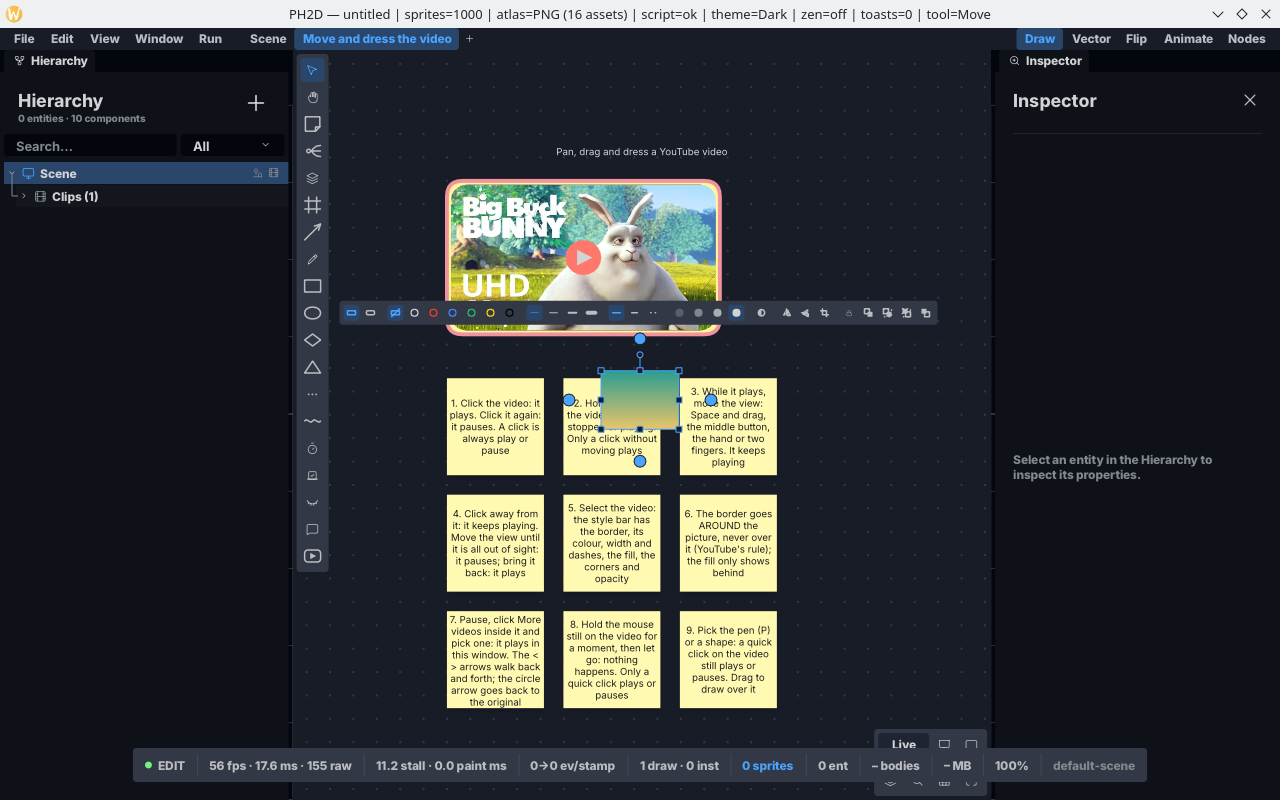
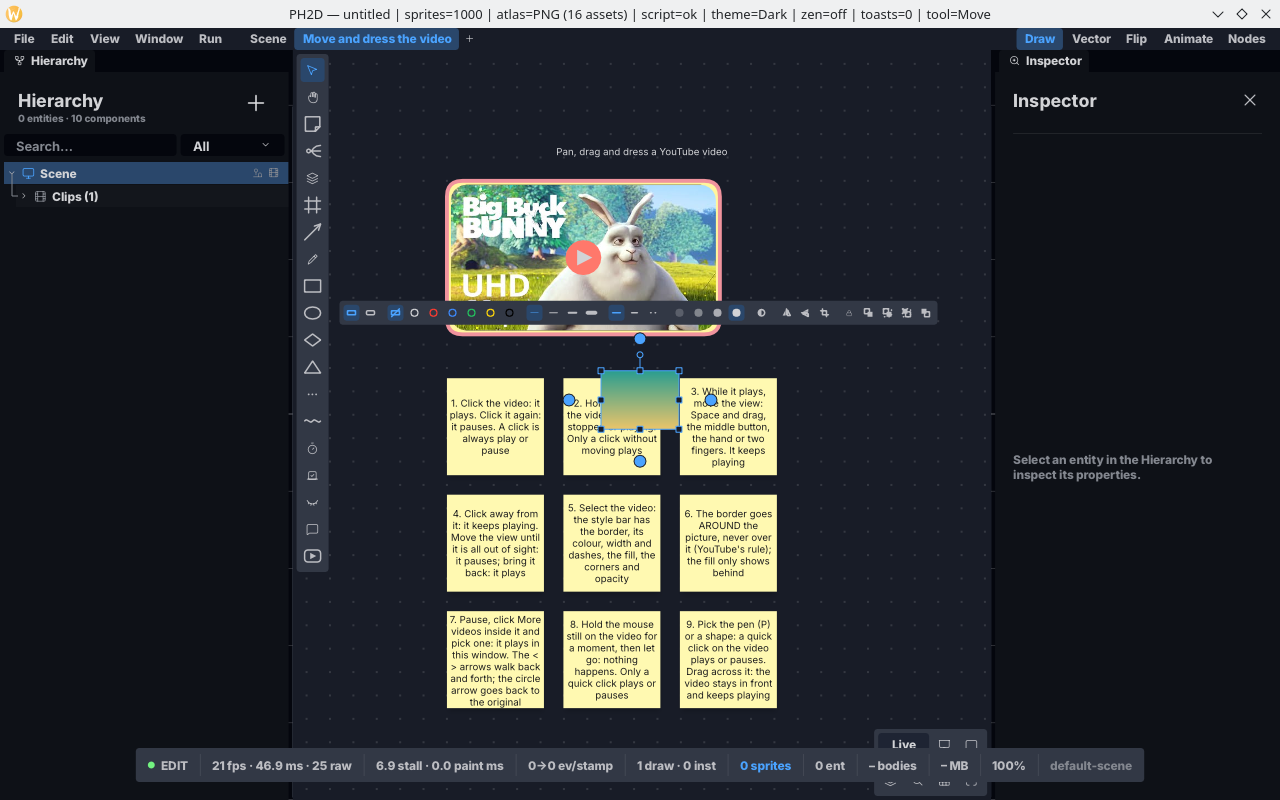
docs(MiroClone W21): §W21.4 (depois do smoke do dono: o vídeo à frente do que o sobrepõe, o clique no arranque, «a carregar»), ADR-0185 §W21 itens 3 e 5 e as notas de revogação da regra «tapado pausa»; handoff §1b; foto da cena 21 com a lição 9 nova

diff --git a/docs/MiroClone/handoffs/HANDOFF_INTEGRACAO_line_MiroClone_W21_2026-10-13.md b/docs/MiroClone/handoffs/HANDOFF_INTEGRACAO_line_MiroClone_W21_2026-10-13.md
@@ -6,7 +6,7 @@
 > e NÃO se repetem aqui (os itens W20.1–W20.7 de lá continuam valendo).
 > Briefing W21: [HANDOFF_CONTINUACAO_W21](HANDOFF_CONTINUACAO_W21_VIDEO_CLIQUE_FERRAMENTAS_WINDOWS_2026-10-13.md).
 > Decisão: [ADR-0185 §W21](../../architecture/decisions/0185-o-video-do-quadro-toca-no-navegador-da-pessoa-projectado-no-canvas.md)
-> (itens 1–4). Mecanismo: [`10_video_do_youtube.md`](../10_video_do_youtube.md) §W21 e §W21.3 (Windows). Oráculo:
+> (itens 1–5). Mecanismo: [`10_video_do_youtube.md`](../10_video_do_youtube.md) §W21, §W21.3 (Windows) e §W21.4 (2.ª volta). Oráculo:
 > [`sonda_w21.mjs`](../ferramentas/excalidraw_oracle/sonda_w21.mjs) (saídas em `excalidraw_oracle/saidas/w21/`).
 
 ## 1. Identidade
@@ -17,7 +17,7 @@
 | HEAD | ver `git log -1` (este handoff é o último commit) |
 | base (merge-base) | `757afebd58` = `main` de 13/10 |
 | commits W20 | ver o handoff da W20 (`86678fcb0b` … `17b0b42c83`) |
-| commits W21 (do mais velho) | `38d0a1c7a2` briefing · `70a27dba39` oráculo `sonda_w21.mjs` · `b4c03a4e8a` feat clique longo + outra ferramenta · `d14f8c5276` cena 21, lições 8 e 9 · `b2d690bd37` docs §W21 · `eeeecd817e` feat Windows · `58172406e8` docs §W21.3 · `ea6810f233` fecho · `433d21bc11` foto da cena · + este handoff |
+| commits W21 (do mais velho) | `38d0a1c7a2` briefing · `70a27dba39` oráculo `sonda_w21.mjs` · `b4c03a4e8a` feat clique longo + outra ferramenta · `d14f8c5276` cena 21, lições 8 e 9 · `b2d690bd37` docs §W21 · `eeeecd817e` feat Windows · `58172406e8` docs §W21.3 · `ea6810f233` fecho · `433d21bc11` foto da cena · `a62dddb8a8` handoff · **`0cb5eede4f` fix, 2.ª volta depois do smoke do dono (§1b)** |
 | diff | `git diff --stat 757afebd58 HEAD` (W20+W21): 114 ficheiros, +20763/−256 (a maior parte é JSON e fotos dos oráculos). Só W21 (`git diff --stat 38d0a1c7a2 HEAD`): 43 ficheiros, +12147/−198. **`shells/` intocada** (`git diff --stat 757afebd58 HEAD -- shells/` vazio) |
 | smoke | cena **21** (`PH2D_BOARD_SMOKE=21`, `smoke_w20.rs`, agora 9 lições; `max_level` continua 21, nenhuma cena nova). Foto: `ferramentas/soltar_wayland/quadro21_w21_depois.png` |
 
@@ -41,6 +41,23 @@
 4. As lições 8 e 9 da cena 21 (`board.smoke.w20.l8`, `l9`) ensinam (8) segurar parado não faz nada e (9) com a caneta
    (P) ou uma forma, o clique toca/pausa e arrastar desenha. Conduzidas pelo gate da cena (`Mouse::hold`).
 
+## 1b. Depois do smoke do dono (13/10) — commit `0cb5eede4f`
+
+Mecanismo, medidas e gates: [`10_video_do_youtube.md` §W21.4](../10_video_do_youtube.md); decisão: ADR-0185 §W21 itens
+3 (reescrito) e 5 (novo). O dono reportou três coisas:
+
+1. **«Nem sempre o primeiro clique toca o vídeo.»** Medido no Chrome 155 real: um clique no instante em que o tocador
+   passa a `Buffering` devolve-o a `Unstarted` e ele nunca toca (8,5 s). Cura: `Playback::started` +
+   `Player::mouse` só depois dele; `PlayerStatus::starting` e «a carregar» (`loading_mark`) no lugar do play. RED
+   `[(Buffering, true, Unstarted)]` → verde (3 variantes em Playing). Gate `a_starting_player_shows_it_is_loading`.
+2. **«O clique com a caneta toca o vídeo.»** Perguntado, «está certo assim»: a opção (a) da W21 fica.
+3. **«Nota/traço/shape sobre parte do vídeo, ele não toca.»** O oráculo esconde o desenho atrás do vídeo (a tocar ou
+   parado): decide sem perguntar. **Revoga** «nós pausamos, acima»: o vídeo desenha-se à frente
+   (`BoardDoc::live_in_paint_order`), o clique na parte sobreposta apanha o vídeo, só outro vídeo o tapa. As lições 2
+   da cena 18 e 9 da cena 21 dizem a lei nova. Mutação: os dois gates sangram.
+
+Testes e mutação: [§W21.4](../10_video_do_youtube.md) (model 124 · render 54 · edit 218 · video 16/16 real · app-board 74 · hero 445).
+
 ## 2. Foundational / partilhado tocado (W21; os da W20 estão no handoff dela)
 
 | onde | o quê | merge |
@@ -55,6 +72,17 @@
 | `ph2d-board-video` | `browser.rs`, `player.rs`, `tests.rs`, `Cargo.toml` | só MiroClone |
 | **crate NOVA** `crates/ph2d-win-pipe-spawn` | membro novo do workspace; `windows-sys` 0.61.2 (já no lock) só em `cfg(windows)`; `Cargo.lock` +1 entrada | aditivo; **regenere o lock, nunca à mão** |
 | `ph2d-editor-core/tests/it/architecture_every_member_inherits_the_workspace_lints.rs` | +1 entrada em `EXCECOES`: a crate FFI precisa de `unsafe`, que o workspace proíbe (isenção que viaja com o código, como a `ph2d-wayland-dnd`) | aditivo (lista); se outra linha também acrescentar, junte as duas |
+
+**2.ª volta (`0cb5eede4f`) — o que um merge pode partir:**
+
+| onde | o quê | merge |
+|---|---|---|
+| `ph2d-board-model` `element.rs` | `BoardDoc::live_in_paint_order` — fn `pub` NOVA | aditivo |
+| `ph2d-board-render` `video.rs` | ⚠ `PlayerStatus::starting` — CAMPO NOVO numa struct `pub`: quem a constrói por literal tem de o pôr (4 testes actualizados: `board_video_tests.rs`, `board_team_flow_tests.rs`, `smoke_w19_tests.rs`, `smoke_w20_tests.rs`); `covered` só conta vídeos; `loading_mark` (novo); o laço do desenho lê a ordem nova | quem constrói `PlayerStatus` noutra linha parte |
+| `ph2d-board-edit` `gesture.rs` | `Editor::hit` lê a ordem de desenho | só MiroClone |
+| `ph2d-board-video` `playback.rs`, `player.rs` | `Playback::started` (campo `pub` novo; o `load` repõe); `Player::mouse` com guarda | aditivo |
+| `ph2d-app-board` `video.rs` | passa `starting` | só MiroClone |
+| `ph2d-i18n` `board_images.rs` | textos MUDADOS: `board.video.covered`, `board.smoke.w18.l2`, `board.smoke.w20.l9` | se outra linha os tocar, junte |
 
 **Roteador de smoke**: `max_level` 21 (inalterado pela W21; reconte se outra linha criar a 21). **Contratos
 congelados (§6)**: nenhum. `PROTOCOL`/`FORMAT_VERSION` do quadro: inalterados. **Catracas baixadas / itens partilhados
@@ -90,6 +118,8 @@ desenha*. TRAÇO: `board_video::pointer_down` (`other`, devolve `true` ⇒ o Dow
 `canvas_down(at)`; segurar: `board_view::pointer` (Up) → `deferred_hold` → `canvas_down(at)` → `ed.pointer_up`.
 ASSERÇÃO-VERMELHA: `with_another_tool_…`. **NÃO-CHECADO-PELA-COMPILAÇÃO**: (3) o tocador num Windows real.
 
+**Re-corrido depois de `0cb5eede4f`: (a preencher)** — o portão acima é o de ANTES da 2.ª volta.
+
 ### Windows: o que foi medido (e a receita, que NÃO está no repo)
 
 Compila para `x86_64-pc-windows-gnu` SEM mingw: o C do `ring` com `CC_x86_64_pc_windows_gnu=clang
@@ -116,6 +146,10 @@ Chrome real, `--include-ignored`).
 - (d) Da W20, sem mudança: o canal aberto fora não pausa o vídeo daqui; o fundo tracejado pinta-se sólido num vídeo;
   e os da W19 que o handoff da W20 lista (Premium · clicar num vídeo TAPADO na apresentação · o aviso no ecrã inteiro ·
   o enquadramento das cenas não desconta os painéis laterais · o `held` do app).
+- (e) **Da 2.ª volta**: o limiar de arrasto de um clique é o da casa (`TAB_DRAG_THRESHOLD_PX`); se o dono ainda vir
+  cliques que não tocam com o vídeo já carregado, a próxima suspeita é um tremor da mão acima dele (não medido).
+  O anel «a carregar» gira com os desenhos do quadro (`RenderCache::frame`): se o quadro não redesenhar durante o
+  arranque fica parado (não medido no app).
 - **FECHADOS pelo dono (13/10)**: as pegas nos cantos do vídeo («deixar») e o trilho das setas da sessão («Não
   precisa»); o clique longo e a outra ferramenta («corrija») e o Windows («implemente») foram feitos aqui.
 - O ficheiro solto `docs/MiroClone/ferramentas/cena2_forma/cena2_botao_forma.log` (de 11/10) é instrumento antigo, não
@@ -152,7 +186,9 @@ nada») e a 9 (com a caneta, tecla P, ou uma forma, o clique toca/pausa e arrast
 laser fica de fora (aponta; não toca nem pausa). Foto: `ferramentas/soltar_wayland/quadro21_w21_depois.png` (a imagem
 no meio é do fotógrafo, não da cena). Como saber que deu errado: segurar parado num vídeo e largar o activa ou pausa;
 com a caneta, um clique rápido no vídeo deixa um ponto/traço em vez de tocar.
+**Novo na 2.ª volta** (diga ao dono): (a) ao arrancar, o vídeo mostra um anel «a carregar» no lugar do play — um clique
+nessa fase não faz nada (o vídeo toca sozinho); (b) uma nota, forma ou traço desenhado sobre parte do vídeo fica
+ATRÁS dele e o vídeo continua a tocar; só outro vídeo por cima o pausa (aviso «Another video covers this one…»).
+Errado: o vídeo pausa por ter uma nota/traço por cima, ou fica parado depois de vários cliques.
 
-**Prova do binário** (depois de reclamar ~16 GB de `target/*/incremental`; 2.ª e 3.ª compilações, a mesma linha
-de comando `bash scripts/ph2d-run.sh cargo build -p ph2d-host-desktop --profile smoke`): `Finished smoke profile
-[optimized] target(s) in 0.23s`, zero `Compiling`. O binário é o de `ea6810f233` (os commits seguintes são só docs).
+**Prova do binário:** (a preencher) — o binário de `ea6810f233` já não é o do HEAD (`0cb5eede4f` mexeu em código).

diff --git a/docs/MiroClone/10_video_do_youtube.md b/docs/MiroClone/10_video_do_youtube.md
@@ -13,7 +13,8 @@ com `gst-plugins-good`) · Servo 0.7 embebido toca a 29,9 fps mas a 360p (sem MS
 **Chrome por CDP: 29,97 fps, som, clique 7–28 ms**. O dono decidiu (12/10) a «janela virtual»: o navegador da família Chrome
 da pessoa, sem cabeça, CDP, projectado no canvas ([ADR-0185](../architecture/decisions/0185-o-video-do-quadro-toca-no-navegador-da-pessoa-projectado-no-canvas.md),
 **número PROVISÓRIO**: máximo no main 0181, linhas 0184 — recontar). Lei do YouTube (Required Minimum Functionality):
-nada à frente do leitor, ≥ 200×200, Referer ⇒ **vivo só destapado, sem rotação, inteiro à vista, ≥ 200 px**.
+nada à frente do leitor, ≥ 200×200, Referer ⇒ **vivo só destapado, sem rotação, inteiro à vista, ≥ 200 px**
+(revogado na W21: o vídeo desenha-se à frente, só outro vídeo o tapa; e na W20, «algum pedaço à vista»).
 
 6. **Modelo.** `ElementKind::Embed(Box<Embed{link, video: Video::YouTube{id,start,vertical}, style}>)` no **FIM** do enum
    (`FORMAT_VERSION` fica 13: lei do repo, variante no fim não muda o formato); `Field::Embed` (`Field::ALL` 38→39);
@@ -146,7 +147,7 @@ PÁGINA (`event.timeStamp` de pointerdown→pointerup), não no `waitForTimeout`
 | vídeo NÃO seleccionado, clique de 68 ms no meio / 607,6 ms | activa / não activa (T0) |
 | vídeo seleccionado, segurar parado no meio, 13 tempos a subir e a descer | activa a 82 · 153 · 203 · 253 · 283,5 ms; NÃO activa a 303,3 · 324 · 354 · 403 · 455 · 502 · 605 · 807 ms; idêntico nos dois sentidos ⇒ a fronteira está em (283,5; 303,3] ms, «perto de 300 ms» (T1) |
 | 11 ferramentas (rectangle, ellipse, diamond, arrow, line, freedraw, text, eraser, laser, hand, frame) sobre o vídeo parado e sobre o activo a tocar | a ferramenta faz SEMPRE o seu por cima e nunca activa o vídeo. Clique sem mexer: arrow/line/freedraw criam um elemento, text abre o editor, rectangle/ellipse/diamond/frame nada (tamanho zero); arrasto: cria o elemento por cima (F) |
-| escolher outra ferramenta com o vídeo activo | desactiva-o (`activeEmbeddable` → `null`) mas ELE CONTINUA A TOCAR, mesmo com um rectângulo desenhado por cima (ignora a regra do YouTube de nada à frente do tocador; nós pausamos, ADR-0185) |
+| escolher outra ferramenta com o vídeo activo | desactiva-o (`activeEmbeddable` → `null`) mas ELE CONTINUA A TOCAR, mesmo com um rectângulo desenhado por cima (ignora a regra do YouTube de nada à frente do tocador; nós pausávamos, ADR-0185 — *revogado na W21 §W21.4: o vídeo desenha-se à frente*) |
 | borracha · mão · laser | APAGA o vídeo (o iframe desaparece e ele pára; a nossa só apaga traços da caneta) · faz pan · não desenha |
 
 **A medida não decidia o item 2.** O oráculo não faz nem (a) «clique = play/pause com qualquer ferramenta, o arrasto é
@@ -209,3 +210,50 @@ lançado pela crate de FFI `ph2d-win-pipe-spawn` (`PROC_THREAD_ATTRIBUTE_HANDLE_
 (30,6 q/s, clique → quadro 28,7 ms). **Por medir num Windows real**: o Edge, o sandbox ligado (no Wine só corre com
 `--no-sandbox`, que existe SÓ nos testes) e os órfãos do fecho (2 em 11 no Wine). O recuo «abrir no navegador» fica
 para quando não há navegador.
+
+## §W21.4 — depois do smoke do dono (13/10)
+
+Commit `0cb5eede4f`. Decisão: [ADR-0185 §W21 itens 3 e 5](../architecture/decisions/0185-o-video-do-quadro-toca-no-navegador-da-pessoa-projectado-no-canvas.md).
+O dono reportou três coisas: (a) «nem sempre o primeiro clique toca o vídeo; às vezes preciso clicar muitas vezes»;
+(b) «o clique com a caneta toca o vídeo» — perguntado, «está certo assim» (é a opção (a) do item 2: fica);
+(c) «se notas, traços ou shapes sobrepõem parcialmente o vídeo, ele não toca. Corrija».
+
+**(c) O vídeo desenha-se à frente.** Oráculo (`saidas/w21/w21_F_rectangle_activo_03_arrasto_largou.png`,
+`w21_F_freedraw_activo_03…`, `w21_F_rectangle_parado_04…`): no Excalidraw o rectângulo e o traço desenhados por cima
+de um vídeo — a tocar ou parado — ficam ESCONDIDOS atrás dele (o iframe vive numa camada acima do canvas). Isso
+decide sem perguntar ao dono e cumpre a regra do YouTube (nada à frente do tocador). Antes, qualquer elemento acima no
+z cuja CAIXA ENVOLVENTE tocasse a do vídeo pausava-o (até um traço cuja caixa o tocava sem o tocar). Cura:
+`BoardDoc::live_in_paint_order` (ordem de z com os vídeos por cima do resto; entre vídeos, o z). Quem a lê: o desenho
+(`ph2d-board-render::paint`, o laço dos elementos; os recortes dos frames reentram por elemento, por isso vale com
+diapositivos), o «o de cima» do clique (`Editor::hit`: o clique na parte sobreposta apanha o vídeo) e a exportação
+(o que se exporta é o que se vê). `covered` conta SÓ outro vídeo mais acima. Aviso `board.video.covered`: «Another
+video covers this one: YouTube only plays it uncovered — move one of them».
+
+**(a) O clique durante o arranque.** Medido no navegador real (Chrome 155, teste `#[ignore]`
+`a_click_while_the_player_starts_never_stops_its_autoplay`, variantes no mesmo processo): sem clique o tocador vai
+Unstarted → Buffering ~1,2–1,5 s → Playing ~1,5–1,9 s (máquina calma). Um clique a 0,3 s e a 1 s (Unstarted) não faz
+nada; a 2 s/3 s (já Playing) pausa — correcto; e **um clique no instante em que passa a `Buffering` devolve-o a
+`Unstarted` e ele NUNCA chega a tocar** (8,5 s observados): o «preciso clicar muitas vezes». E durante o arranque o
+quadro tirava o play e mostrava a miniatura parada, o que convidava a clicar de novo. Cura: `Playback::started`
+(true em Playing/Paused/Ended/Cued; o `load` repõe) e `Player::mouse` só manda o rato à página depois dele (antes, o
+vídeo toca sozinho, `autoplay=1`); `PlayerStatus::starting = !started` e o desenho põe «a carregar» (disco `BgScrim`
+com um arco de ¾ que gira com os desenhos do quadro, `loading_mark`) no lugar do play. RED antes da cura:
+`[(Buffering, true, Unstarted)]`; verde depois: as três variantes acabam em Playing.
+
+| gate | o que prova |
+|---|---|
+| `a_video_draws_over_what_overlaps_it_and_only_another_video_covers_it` (render) | uma nota acima no z pinta-se antes do quadro do tocador e ele fica vivo sem play; outro vídeo por cima tapa-o |
+| `shapes_over_part_of_a_video_never_stop_it_and_the_video_takes_the_click` (editor, despacho real) | rectângulo + traço da caneta sobre parte do vídeo: o clique no play toca-o; o clique na parte sobreposta selecciona o vídeo |
+| `a_starting_player_shows_it_is_loading` (render) | o «a carregar» no lugar do play |
+| `a_click_while_the_player_starts_never_stops_its_autoplay` (tocador real, `#[ignore]`) | as 3 variantes acabam em Playing |
+| gate da cena 18 · gate da cena 21 | lição 2 da cena 18: «Put a note over part of the video: the video stays in front and keeps playing. Rotate it: it pauses (YouTube's rule).» (prova as duas metades; antes ensinava o contrário, `tapado não está vivo`); lição 9 da cena 21: «… Drag across it: the video stays in front and keeps playing» (o gate verifica que o vídeo continua vivo com o traço) |
+
+Mutação (desligar a ordenação + `covered` antigo): os dois gates do (c) sangram («nota por cima = true: o tocador
+parou», «tapado em parte e não toca»). Testes depois da volta: `ph2d-board-model` 124 · `ph2d-board-render` 54 (+2
+ignorados) · `ph2d-board-edit` 218 · `ph2d-board-video` 7 + 9 ignorados (16/16 com `--include-ignored`, release) ·
+`ph2d-app-board` 74 + 7 ignorados · `ph2d-editor-core --lib screens::hero` 445 · os 18 testes do vídeo ✓.
+
+**Aberto.** (i) O limiar de arrasto de um clique é o da casa (`TAB_DRAG_THRESHOLD_PX`); se o dono ainda vir cliques que
+não tocam com o vídeo já carregado, a próxima suspeita é um tremor da mão acima dele (não medido). (ii) O anel «a
+carregar» gira com os desenhos do quadro (`RenderCache::frame`): se o quadro não redesenhar durante o arranque, fica
+parado (não medido no app).

diff --git a/docs/architecture/decisions/0185-o-video-do-quadro-toca-no-navegador-da-pessoa-projectado-no-canvas.md b/docs/architecture/decisions/0185-o-video-do-quadro-toca-no-navegador-da-pessoa-projectado-no-canvas.md
@@ -43,7 +43,7 @@ quadros chegam por screencast e desenham-se no canvas como uma imagem; o rato e 
 3. **UM tocador vivo de cada vez** — o vídeo ACTIVADO (o idioma do oráculo: um clique activa, clicar fora
    desactiva). Os outros mostram a miniatura com o símbolo de play.
 4. **Vivo só quando as regras se cumprem**, uma função com gate (`live_allowed`): descoberto (nenhum elemento por
-   cima do retângulo dele), sem rotação e ≥ 200×200 px VISÍVEIS (W19: era «inteiro à vista», a regra era nossa e
+   cima do retângulo dele) *(revogado na W21: o vídeo desenha-se à frente; só outro vídeo o tapa)*, sem rotação e ≥ 200×200 px VISÍVEIS (W19: era «inteiro à vista», a regra era nossa e
    pausava o vídeo a cada zoom — §W19). Ao falhar qualquer uma, o
    desenho volta à miniatura (com o quadro em que parou) no mesmo quadro em que deixou de cumprir.
 5. **A miniatura SEMPRE no canvas**: export, pan, zoom, rotação, sem rede. Busca-se fora do fio da janela, com
@@ -61,7 +61,7 @@ quadros chegam por screencast e desenham-se no canvas como uma imagem; o rato e 
 | **Servo 0.7 embutido** | toca: **29,9 q/s**, 0,09 núcleo, 646 MB, build release frio 172 s. MAS sem MSE ⇒ o YouTube cai no MP4 de **360p**; a API de embutir **quebra todo mês** (*«not a 1.0»*); pede GStreamer também no Windows/macOS; o Verso (o webview do Tauri sobre o Servo) foi **arquivado** em 10/2025. ⇒ plano B quando houver MSE (NLnet «Servo Multimedia», 06/2026) |
 | **CEF embutido** (o motor do Chrome dentro do PH2D) | toca (o mesmo motor da decisão), mas **+364 MB** instalados / 116 MB baixados por build; o `accelerated_osr` do crate `cef` 154 pede `wgpu` **30** (o nosso é 29, preso pelo `vello`); o dono preferiu zero a instalar |
 | **(iii) tirar o fluxo do vídeo** (`yt-dlp` + descodificar) | ⛔ viola os termos do YouTube |
-| **o tocador vivo por baixo das notas / rodado** | ⛔ as regras do YouTube proíbem cobrir qualquer parte do tocador e modificar a aparência dele ⇒ miniatura |
+| **o tocador vivo por baixo das notas / rodado** | ⛔ as regras do YouTube proíbem cobrir qualquer parte do tocador e modificar a aparência dele ⇒ miniatura *(revogado na W21: o vídeo desenha-se à frente; só outro vídeo o tapa)* |
 
 ## O PREÇO
 
@@ -85,7 +85,7 @@ falha e a decisão volta ao dono (o Servo é o plano B).
 ## O que fica gateado (para ninguém re-litigar por prosa)
 
 - `ph2d-board-embed` (crate da lei): `youtube::parse` contra a tabela das 24 formas do oráculo (+ as correcções);
-  `live_allowed` (descoberto · sem rotação · ≥ 200×200 VISÍVEIS — §W19).
+  `live_allowed` (descoberto · sem rotação · ≥ 200×200 VISÍVEIS — §W19) *(revogado na W21: o vídeo desenha-se à frente; só outro vídeo o tapa)*.
 - O `.excalidraw`: ler e escrever o `embeddable` com `link` (o contador do aviso X3 desce).
 - `deny.toml` `[bans]` (o `cargo deny` do `ship.sh`): as crates de extrair fluxos do YouTube (`rustube`,
   `rusty_ytdl`, `ytextract`, `youtube_dl`, `yt-dlp`, `ytdlp`) e os motores web recusados (`wry`, `cef`,
@@ -161,7 +161,7 @@ com o YouTube real, saídas em `excalidraw_oracle/saidas/w20/`); mecanismo:
    tocador tem) separa-se de `Videos::active` (quem recebe o rato e as teclas); o app toca o `player`.
 2. **A regra de estar vivo**: o mínimo de 200×200 do YouTube (*Required Minimum Functionality*) é do TOCADOR, não
    do pedaço à vista — um embed numa página que rola fica meio fora e toca; o oráculo toca com 150 px à vista e
-   todo fora. A W19 tinha lido «200×200 VISÍVEIS» e por isso o pan até à beira pausava. Agora: destapado, sem
+   todo fora. A W19 tinha lido «200×200 VISÍVEIS» e por isso o pan até à beira pausava. Agora: destapado *(revogado na W21: o vídeo desenha-se à frente; só outro vídeo o tapa)*, sem
    rodar, tocador ≥ 200×200 e **algum** pedaço à vista — só todo fora pausa (o pedido do dono); de volta, retoma
    se tocava; o navegador fecha 60 s depois e o vídeo volta a ser só o play (não arranca sozinho do início).
 3. **Os pans nunca chegam ao vídeo**: o botão do meio (também o dos dois dedos, que chega como um meio
@@ -225,8 +225,14 @@ sondas); mecanismo, tabelas e gates: [`10_video_do_youtube.md`](../../MiroClone/
    ferramenta, o arrasto é da ferramenta» ou (b) «sobre o vídeo a ferramenta não começa» —, escolheu **(a)**: o
    carregar fica à espera (consumido); vira arrasto ⇒ o editor recebe-o no ponto onde se carregou; parado além de
    `HOLD_NS` ⇒ a ferramenta faz o seu clique. O laser e a mão ficam de fora.
-3. **Não copiamos** do oráculo: o vídeo que continua a tocar com um rectângulo à frente (nós pausamos, acima) nem a
-   borracha que apaga o vídeo (a nossa só apaga traços da caneta).
+3. **Copiamos do oráculo o vídeo à frente** (2.ª volta, depois do smoke do dono de 13/10; **revoga** o «nós pausamos,
+   acima»: um rectângulo ou traço desenhado por cima de um vídeo, a tocar ou parado, fica ESCONDIDO atrás dele — o
+   iframe do oráculo vive numa camada acima do canvas, `sonda_w21.mjs` F_*). Isso cumpre a regra do YouTube (nada à
+   frente do tocador) sem pausar nada: `BoardDoc::live_in_paint_order` (a ordem de z com os vídeos por cima de tudo
+   o resto; entre vídeos, o z) é lida pelo desenho, pelo «o de cima» do clique (`Editor::hit`) e pela exportação; o
+   clique na parte sobreposta apanha o vídeo. **Só outro vídeo mais acima o tapa** (e então pausa); rodado continua a
+   pausar. O dono tinha reportado «se uma nota, traço ou forma sobrepõe parcialmente o vídeo, ele não toca». **Não
+   copiamos** a borracha que apaga o vídeo (a nossa só apaga traços da caneta).
 4. **O tocador no Windows** (decisão do dono, «implemente»): o mesmo CDP+NUL do Linux, por dois tubos anónimos cujos
    handles o navegador herda e recebe em `--remote-debugging-io-pipes=<o que ele lê>,<o que ele escreve>` (decimal; o
    formato é o do lançador do .NET Aspire, MIT). A porta TCP continua RECUSADA, nem como recuo. O `std::process` não
@@ -242,3 +248,9 @@ sondas); mecanismo, tabelas e gates: [`10_video_do_youtube.md`](../../MiroClone/
    antivírus). No Wine, com o job, 2 de 11 fechos deixaram um processo `--type=renderer` órfão (0 de 2 quando antes
    se manda `Browser.close`); por medir se é do Wine/`--no-sandbox` ou também do Windows — se for, o fecho passa a
    mandar `Browser.close` antes de matar.
+5. **O arranque do tocador não aceita rato** (2.ª volta; o dono: «nem sempre o primeiro clique toca o vídeo»). Medido no
+   Chrome 155 real: Unstarted → Buffering (~1,2–1,5 s) → Playing (~1,5–1,9 s); um clique no instante em que passa a
+   `Buffering` devolve-o a `Unstarted` e ele NUNCA toca (8,5 s observados). Lei: `Player::mouse` só manda o rato à
+   página depois de `Playback::started` (Playing/Paused/Ended/Cued; o `load` repõe-no) — antes, o vídeo toca sozinho
+   (`autoplay=1`). Enquanto arranca o quadro mostra «a carregar» no lugar do play (`PlayerStatus::starting`), para
+   ninguém clicar de novo. A caneta que toca o vídeo (opção (a) do item 2) o dono confirmou: «está certo assim».
